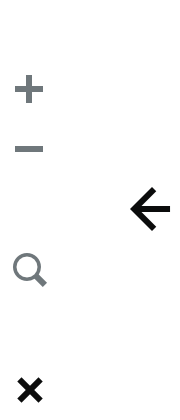
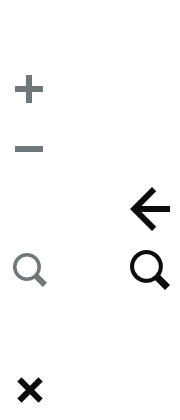
National view

Changed region(s): [[0.7222, 0.5881, 0.9444, 0.7119]]

diff --git a/server/views/national.html b/server/views/national.html
@@ -25,97 +25,61 @@
 {% block content %}
 <div class="govuk-grid-row">
   <div class="govuk-grid-column-two-thirds">
-    <h1 class="govuk-heading-xl govuk-!-margin-bottom-2">
-      <span class="govuk-caption-xl">Flood risk</span>England
-    </h1>
-    <p class="govuk-body govuk-!-margin-bottom-8"><a href="/">Refine location</a></p>
+    <h1 class="govuk-heading-xl govuk-!-margin-bottom-2">Flood risk for England</h1>
+  </div>
+</div>
+<div class="govuk-grid-row">
+  <div class="govuk-grid-column-two-thirds">
+    <div id="warnings" class="accordion govuk-!-margin-bottom-4">
+      {% for panel in model.panels %}
+        {{ severity(panel) }}
+      {% endfor %}
+    </div>
   </div>
 </div>
 <div class="govuk-grid-row">
   <div class="govuk-grid-column-full">
+    <figure class="map map--large map--embedded" id="map-now">
+      <div class="map__container">
+        <div class="map__container-inner">
+        </div>
+      </div>
+      <figcaption class="govuk-visually-hidden">Flood warnings and river and sea levels</figcaption>
+    </figure>
     <p class="govuk-body-s govuk-!-margin-top-4">
       <span class="govuk-body--caption">
         <time class="form-hint" title="{{model.timestamp | formatDate}}"
           datetime="{{model.timestamp}}">Last updated {{model.timestamp | formatDate}}</time>
       </span>
     </p>
-    <div class="govuk-tabs govuk-!-margin-bottom-2" data-module="tabs">
-      <h2 class="govuk-tabs__title">Contents</h2>
-      <ul class="govuk-tabs__list">
-        <li class="govuk-tabs__list-item">
-          <a class="govuk-tabs__tab" href="#now">Now</a>
-        </li>
-        <li class="govuk-tabs__list-item">
-          <a class="govuk-tabs__tab" href="#outlook">Next 5 days</a>
-        </li>
-      </ul>
-      <section class="govuk-tabs__panel govuk-tabs__panel--risk-detail" id="now">
-        <div class="app-risk-detail">
-          <div class="app-risk-detail__copy">
-            <div class="app-risk-detail__copy-container">
-              <div class="app-risk-detail__copy-inner">
-                <h2 class="app-risk-detail__heading govuk-!-margin-top-2">Now</h2>
-                <div id="warnings" class="accordion govuk-!-margin-bottom-4">
-                  {% for panel in model.panels %}
-                    {{ severity(panel) }}
-                  {% endfor %}
-                </div>
-              </div>
-            </div>
-          </div>
-          <div class="app-risk-detail__vis">
-            <figure class="map map--large" id="map-now">
-              <div class="map__container">
-                <div class="map__container-inner">
-                </div>
-              </div>
-              <figcaption class="govuk-visually-hidden">Flood warnings and river and sea levels</figcaption>
-            </figure>
-          </div>
-        </div>
-      </section>
-      <section class="govuk-tabs__panel govuk-tabs__panel--risk-detail" id="outlook">
-        <div class="app-risk-detail">
-          <div class="app-risk-detail__copy">
-            <div class="app-risk-detail__copy-container">
-              <div class="app-risk-detail__copy-inner">
-                <h2 class="govuk-heading-m govuk-!-margin-top-2">Next 5 days</h2>
-                {#{% include "includes/location/outlook.html" %}#}
-              </div>
-            </div>
-          </div>
-          <div class="app-risk-detail__vis">
-            <figure class="map map--large" id="map-outlook">
-              <div class="map__container">
-                <div class="map__container-inner">
-                </div>
-              </div>
-              <figcaption class="govuk-visually-hidden">5 day flood forecast</figcaption>
-            </figure>
-          </div>
-        </div>
-      </section>
+  </div>
+</div>
+<div class="govuk-grid-row">
+  <div class="govuk-grid-column-two-thirds">
+    <div class="govuk-inset-text govuk-inset-text--search govuk-!-margin-top-2">
+      <p>
+        <a href="/">
+          <span class="govuk-inset-text__icon"></span>Check flood warnings and river levels near you
+        </a>
+      </p>
+    </div>
+    <div class="govuk-inset-text govuk-!-margin-top-2 govuk-!-margin-bottom-0">
+      <p>In river and coastal flood risk areas, you can <a href="https://www.gov.uk/sign-up-for-flood-warnings">get flood warnings by phone, text or email</a>. This service is free.</p>
     </div>
   </div>
 </div>
 <div class="govuk-grid-row">
   <div class="govuk-grid-column-two-thirds">
-    <h2 class="govuk-heading-m govuk-!-margin-top-2">Next 5 days</h2>
-    <p class="govuk-body-l">{{model.outlook.headline}}</p>
+    <h2 class="govuk-heading-m govuk-!-margin-top-6">Next 5 days</h2>
+    <p>{{model.outlook.headline}}</p>
     <p>{{model.outlook.public_forecast.english_forecast}}</p>
+    <p>See a <a href="/outlook">map showing the full 5-day outlook</a></p>
   </div>
 </div>
 <div class="govuk-grid-row">
   <div class="govuk-grid-column-two-thirds">
-    <div class="govuk-inset-text govuk-!-margin-top-4">
-      <p>Get flood warnings by phone, text or email. <a href="https://www.gov.uk/sign-up-for-flood-warnings">Sign up
-          for flood warnings</a>.</p>
-      <p>Some places may experience flooding from other sources in the future. <a href="https://flood-warning-information.service.gov.uk/long-term-flood-risk">View
-          long term flood risk information</a>.</p>
-    </div>
-
-    {% include "partials/before-during-after.html" %}
-    {% include "partials/floods-description.html" %}
+    <h2 class="govuk-heading-m govuk-!-margin-top-6">Long term</h2>
+    <p>Many areas are vulnerable to flooding in the future. You can <a href="https://flood-warning-information.service.gov.uk/long-term-flood-risk">learn more about the long term flood risk for any location in England</a>.</p>
   </div>
 </div>
 {% endblock %}

diff --git a/server/views/location.html b/server/views/location.html
@@ -40,62 +40,24 @@
           datetime="{{model.timestamp}}">Last updated {{model.timestamp | formatDate}}</time>
       </span>
     </p>
-    <div class="govuk-tabs govuk-!-margin-bottom-2" data-module="tabs">
-      <h2 class="govuk-tabs__title">Contents</h2>
-      <ul class="govuk-tabs__list">
-        <li class="govuk-tabs__list-item">
-          <a class="govuk-tabs__tab" href="#now">Now</a>
-        </li>
-        <li class="govuk-tabs__list-item">
-          <a class="govuk-tabs__tab" href="#outlook">Next 5 days</a>
-        </li>
-      </ul>
-      <section class="govuk-tabs__panel govuk-tabs__panel--risk-detail" id="now">
-        <div class="app-risk-detail">
-          <div class="app-risk-detail__copy">
-            <div class="app-risk-detail__copy-container">
-              <div class="app-risk-detail__copy-inner">
-                <div id="warnings" class="accordion govuk-!-margin-bottom-4">
-                  {% for panel in model.panels %}
-                    {{ severity(panel) }}
-                  {% endfor %}
-                </div>
-              </div>
-            </div>
-          </div>
-          <div class="app-risk-detail__vis">
-            <figure class="map map--large" id="map-now">
-              <div class="map__container">
-                <div class="map__container-inner">
-                </div>
-              </div>
-              <figcaption class="govuk-visually-hidden">Flood warnings and river and sea levels</figcaption>
-            </figure>
-          </div>
+
+    <div class="govuk-grid-row">
+      <div class="govuk-grid-column-two-thirds">
+        <div id="warnings" class="accordion govuk-!-margin-bottom-4">
+          {% for panel in model.panels %}
+            {{ severity(panel) }}
+          {% endfor %}
         </div>
-      </section>
-      <section class="govuk-tabs__panel govuk-tabs__panel--risk-detail" id="outlook">
-        <div class="app-risk-detail">
-          <div class="app-risk-detail__copy">
-            <div class="app-risk-detail__copy-container">
-              <div class="app-risk-detail__copy-inner">
-                <h2 class="govuk-heading-m govuk-!-margin-top-2">Next 5 days</h2>
-                {#{% include "includes/location/outlook.html" %}#}
-              </div>
-            </div>
-          </div>
-          <div class="app-risk-detail__vis">
-            <figure class="map map--large" id="map-outlook">
-              <div class="map__container">
-                <div class="map__container-inner">
-                </div>
-              </div>
-              <figcaption class="govuk-visually-hidden">5 day flood forecast</figcaption>
-            </figure>
-          </div>
-        </div>
-      </section>
+      </div>
     </div>
+
+    <figure class="map map--large map--embedded" id="map-now">
+      <div class="map__container">
+        <div class="map__container-inner">
+        </div>
+      </div>
+      <figcaption class="govuk-visually-hidden">Flood warnings and river and sea levels</figcaption>
+    </figure>
   </div>
 </div>
 <div class="govuk-grid-row">

diff --git a/client/sass/components/_map.scss b/client/sass/components/_map.scss
@@ -629,6 +629,39 @@ input[type="search"].map-search-input::-webkit-search-results-decoration {
   height:100%;
   z-index:2;
 }
+.map--embedded {
+  .map__container-inner  {
+    @include mq ($from: tablet) {
+      border-top:1px solid $govuk-border-colour;
+      border-left:1px solid $govuk-border-colour;
+      border-bottom:1px solid $govuk-border-colour;
+      width: 66.6%;
+    }
+    @include mq ($from: desktop) {
+      width:75%;
+    }
+  }
+  .map-key__container  {
+    @include mq ($from: tablet) {
+      top:-1px;
+      display:block;
+      position:absolute;
+      left:100%;
+      width:50%;
+      border-top:1px solid $govuk-border-colour;
+      border-right:1px solid $govuk-border-colour;
+      border-bottom:1px solid $govuk-border-colour;
+    }
+    @include mq ($from: desktop) {
+      width:33%;
+    }
+  }
+  .map-key__toggle {
+    @include mq ($from: tablet) {
+      display:none;
+    }
+  }
+}
 .map--key-open .map-key__container {
   display:block;
   border-left:1px solid $govuk-border-colour;
@@ -655,14 +688,6 @@ input[type="search"].map-search-input::-webkit-search-results-decoration {
   background-size:90px;
   background-position:5px -145px;
   background-repeat: no-repeat;
-  /*
-  @include mq ($from: tablet) {
-    width: 30px;
-    height: 30px;
-    background-position:0px -150px;
-    background-size:200%;
-  }
-  */
 }
 .map--key-open .map-key__toggle {
   right: 10px;
@@ -724,7 +749,7 @@ input[type="search"].map-search-input::-webkit-search-results-decoration {
   overflow:auto;
 }
 .map-key__copyright {
-  @include govuk-font($size: 16);
+  @include govuk-font($size: 14);
   position: absolute;
   bottom:0;
   left:0;
@@ -857,5 +882,16 @@ input[type="search"].map-search-input::-webkit-search-results-decoration {
     @include mq ($from: tablet) {
       margin-bottom:10px;
     }
+  }
+}
+
+.govuk-button--progressive + .map {
+  @include mq ($from: tablet) {
+    display:none;
+  }
+}
+.govuk-button--progressive.govuk-button--open + .map {
+  @include mq ($from: tablet) {
+    display:block;
   }
 }

diff --git a/server/views/outlook.html b/server/views/outlook.html
@@ -3,19 +3,13 @@
 {% block content %}
 <div class="govuk-grid-row">
   <div class="govuk-grid-column-two-thirds">
-    <h1 class="govuk-heading-xl govuk-!-margin-bottom-2">
-      Outlook for England
-    </h1>
-    <p class="govuk-body govuk-!-margin-bottom-8"><a href="/">Refine location</a></p>
+    <h1 class="govuk-heading-xl govuk-!-margin-bottom-2">Outlook for England</h1>
   </div>
 </div>
-
 {% endblock %}
 
 {% block bodyEnd %}
 {{ super() }}
 <script src="{{assetPath}}/javascripts/ol.js"></script>
 <script src="{{assetPath}}/javascripts/components/map.js"></script>
-<script src="{{assetPath}}/javascripts/components/accordion.js"></script>
-<script src="{{assetPath}}/javascripts/pages/national.js"></script>
 {% endblock %}

diff --git a/client/sass/objects/_typography.scss b/client/sass/objects/_typography.scss
@@ -1,3 +1,25 @@
 .govuk-body--caption {
   color: $govuk-secondary-text-colour;
 }
+
+.govuk-inset-text--search {
+  position:relative;
+  padding-left:50px;
+  @include mq ($from: tablet) {
+    padding-left:52px;
+  }
+  .govuk-inset-text__icon {
+    position:absolute;
+    left:12px;
+    top:50%;
+    margin-top:-16px;
+    width:32px;
+    height:32px;
+    background: white url('#{$govuk-images-path}icon-search-2x.png') 0 0 no-repeat;
+    background-size:30px;
+    margin-right:0.25em;
+    @include mq ($from: tablet) {
+      left:15px;
+    }
+  }
+}

diff --git a/server/routes/outlook.js b/server/routes/outlook.js
@@ -5,8 +5,8 @@ module.exports = {
   method: 'GET',
   path: '/outlook',
   handler: async (request, h) => {
-    const outlook = await floodService.getOutlook()
-    const model = new ViewModel(outlook)
+    const { statement: outlook } = await floodService.getOutlook()
+    const model = new ViewModel({ outlook })
 
     return h.view('outlook', { model })
   }
